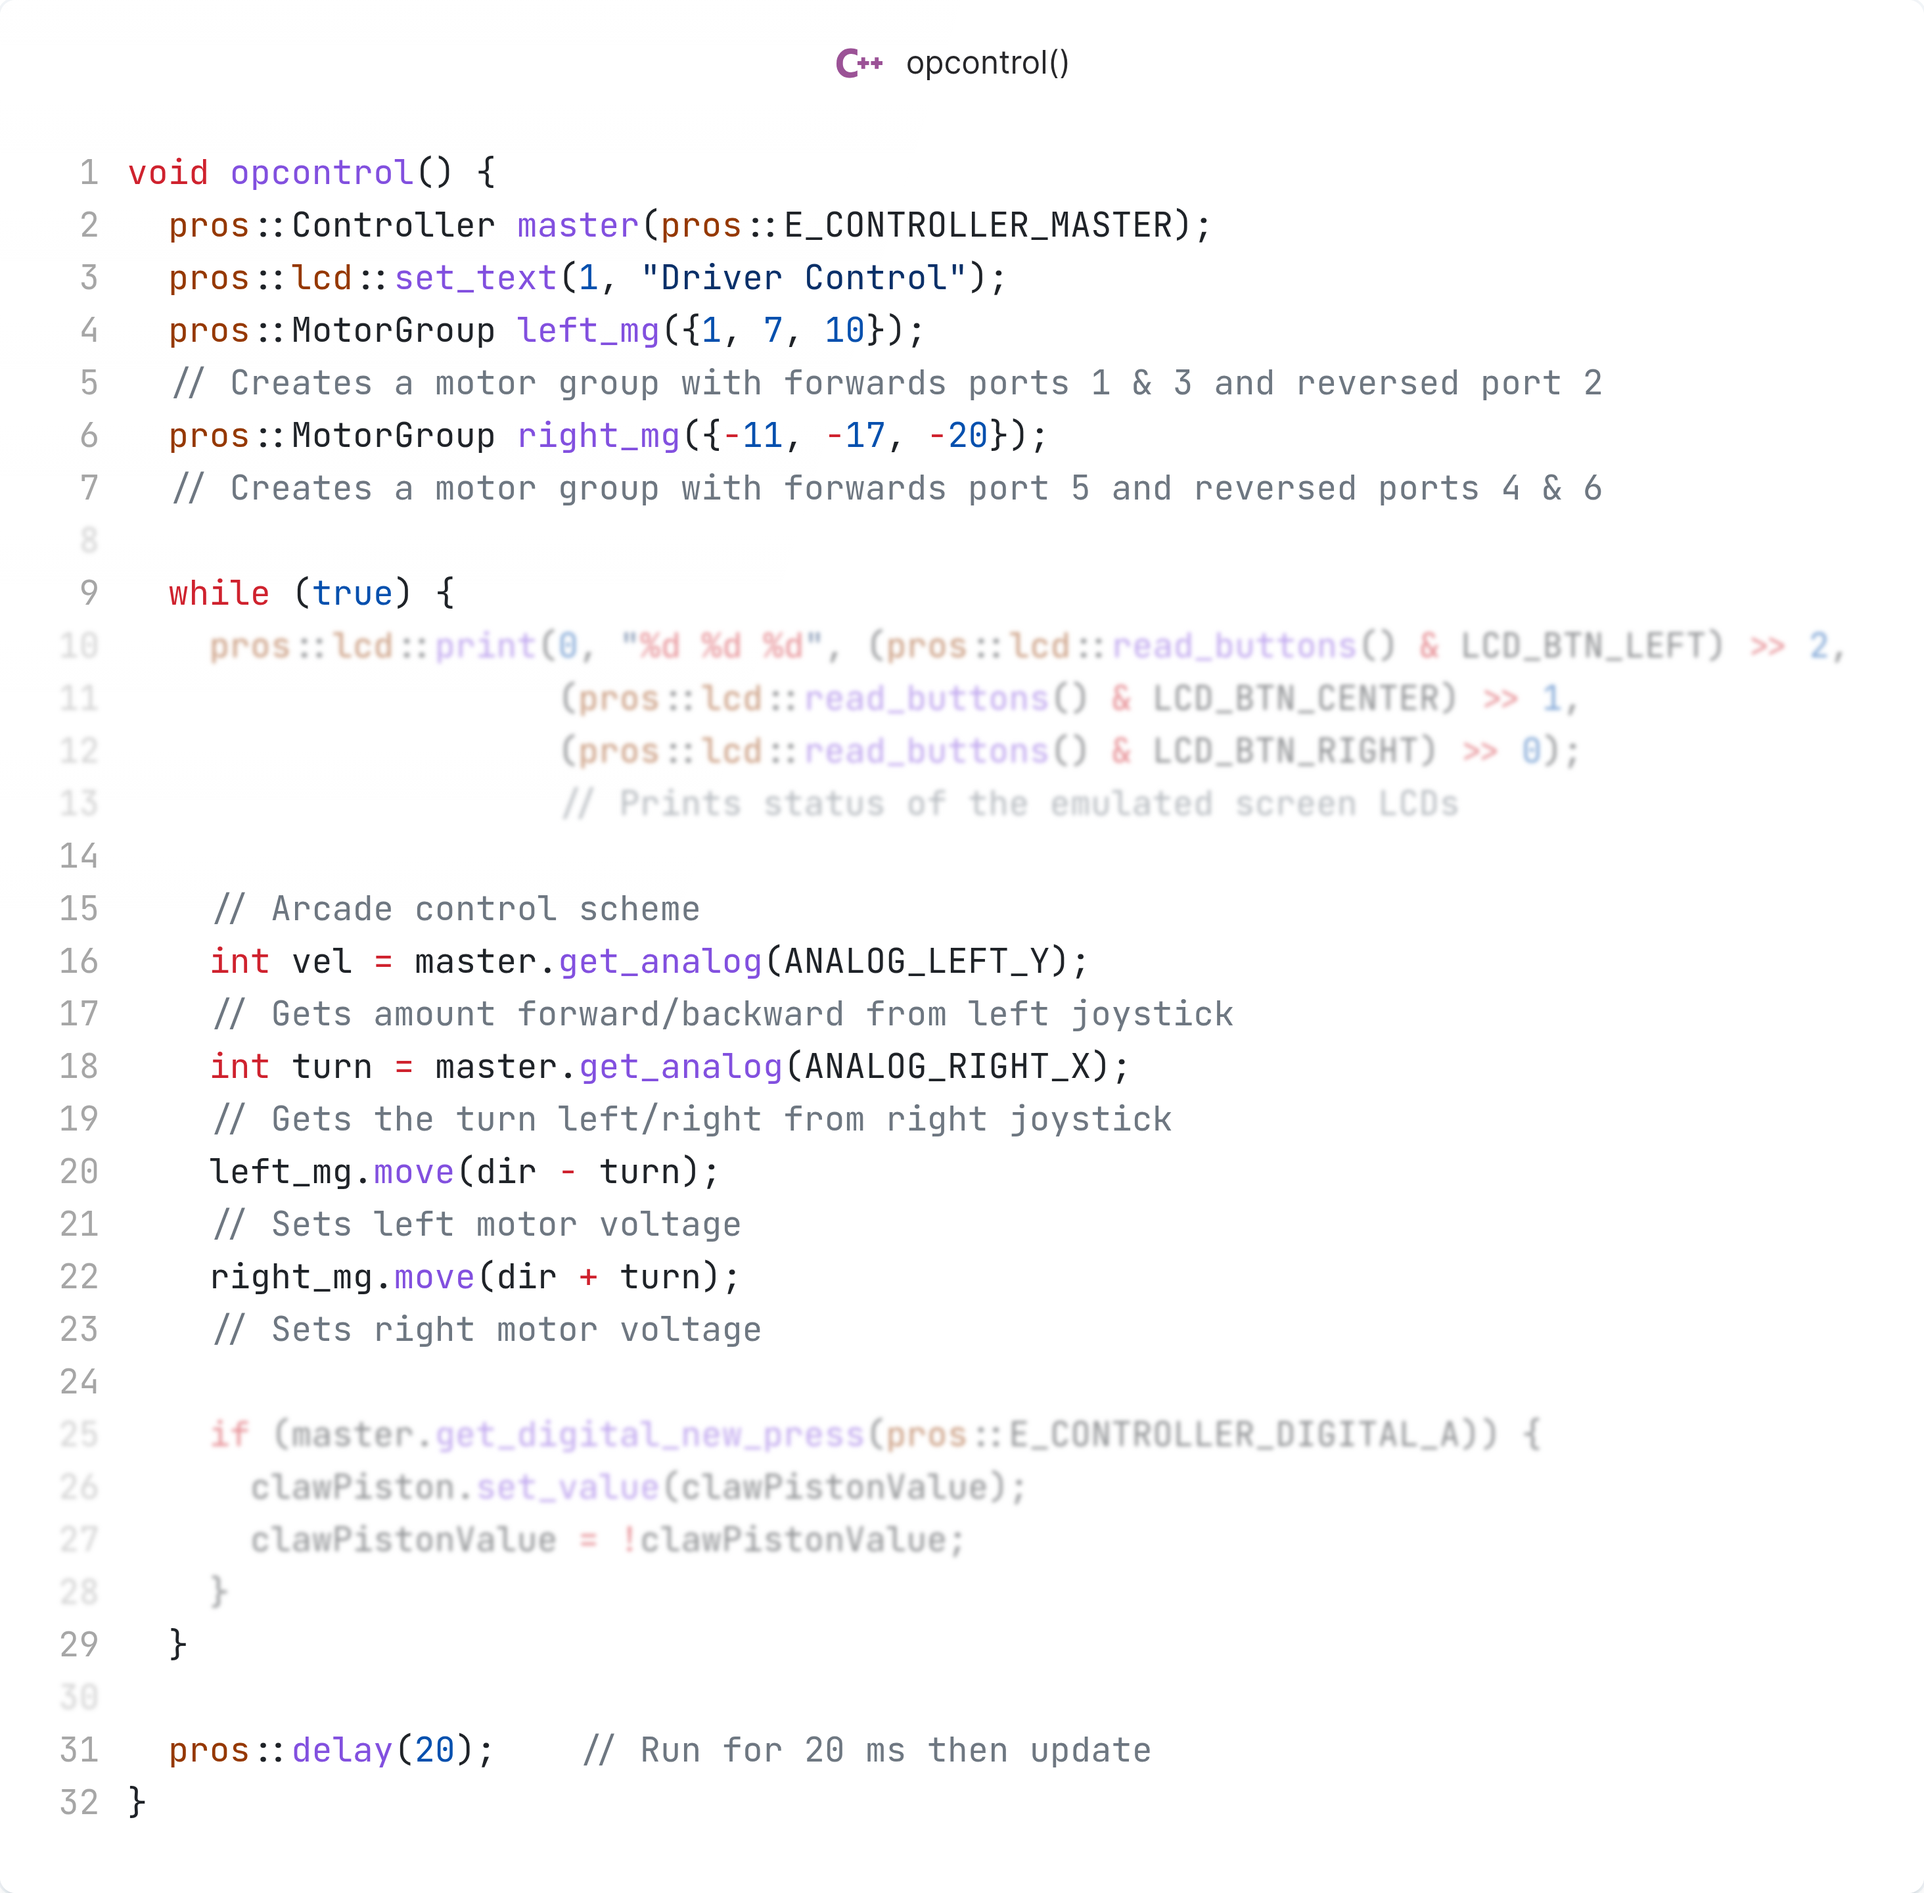
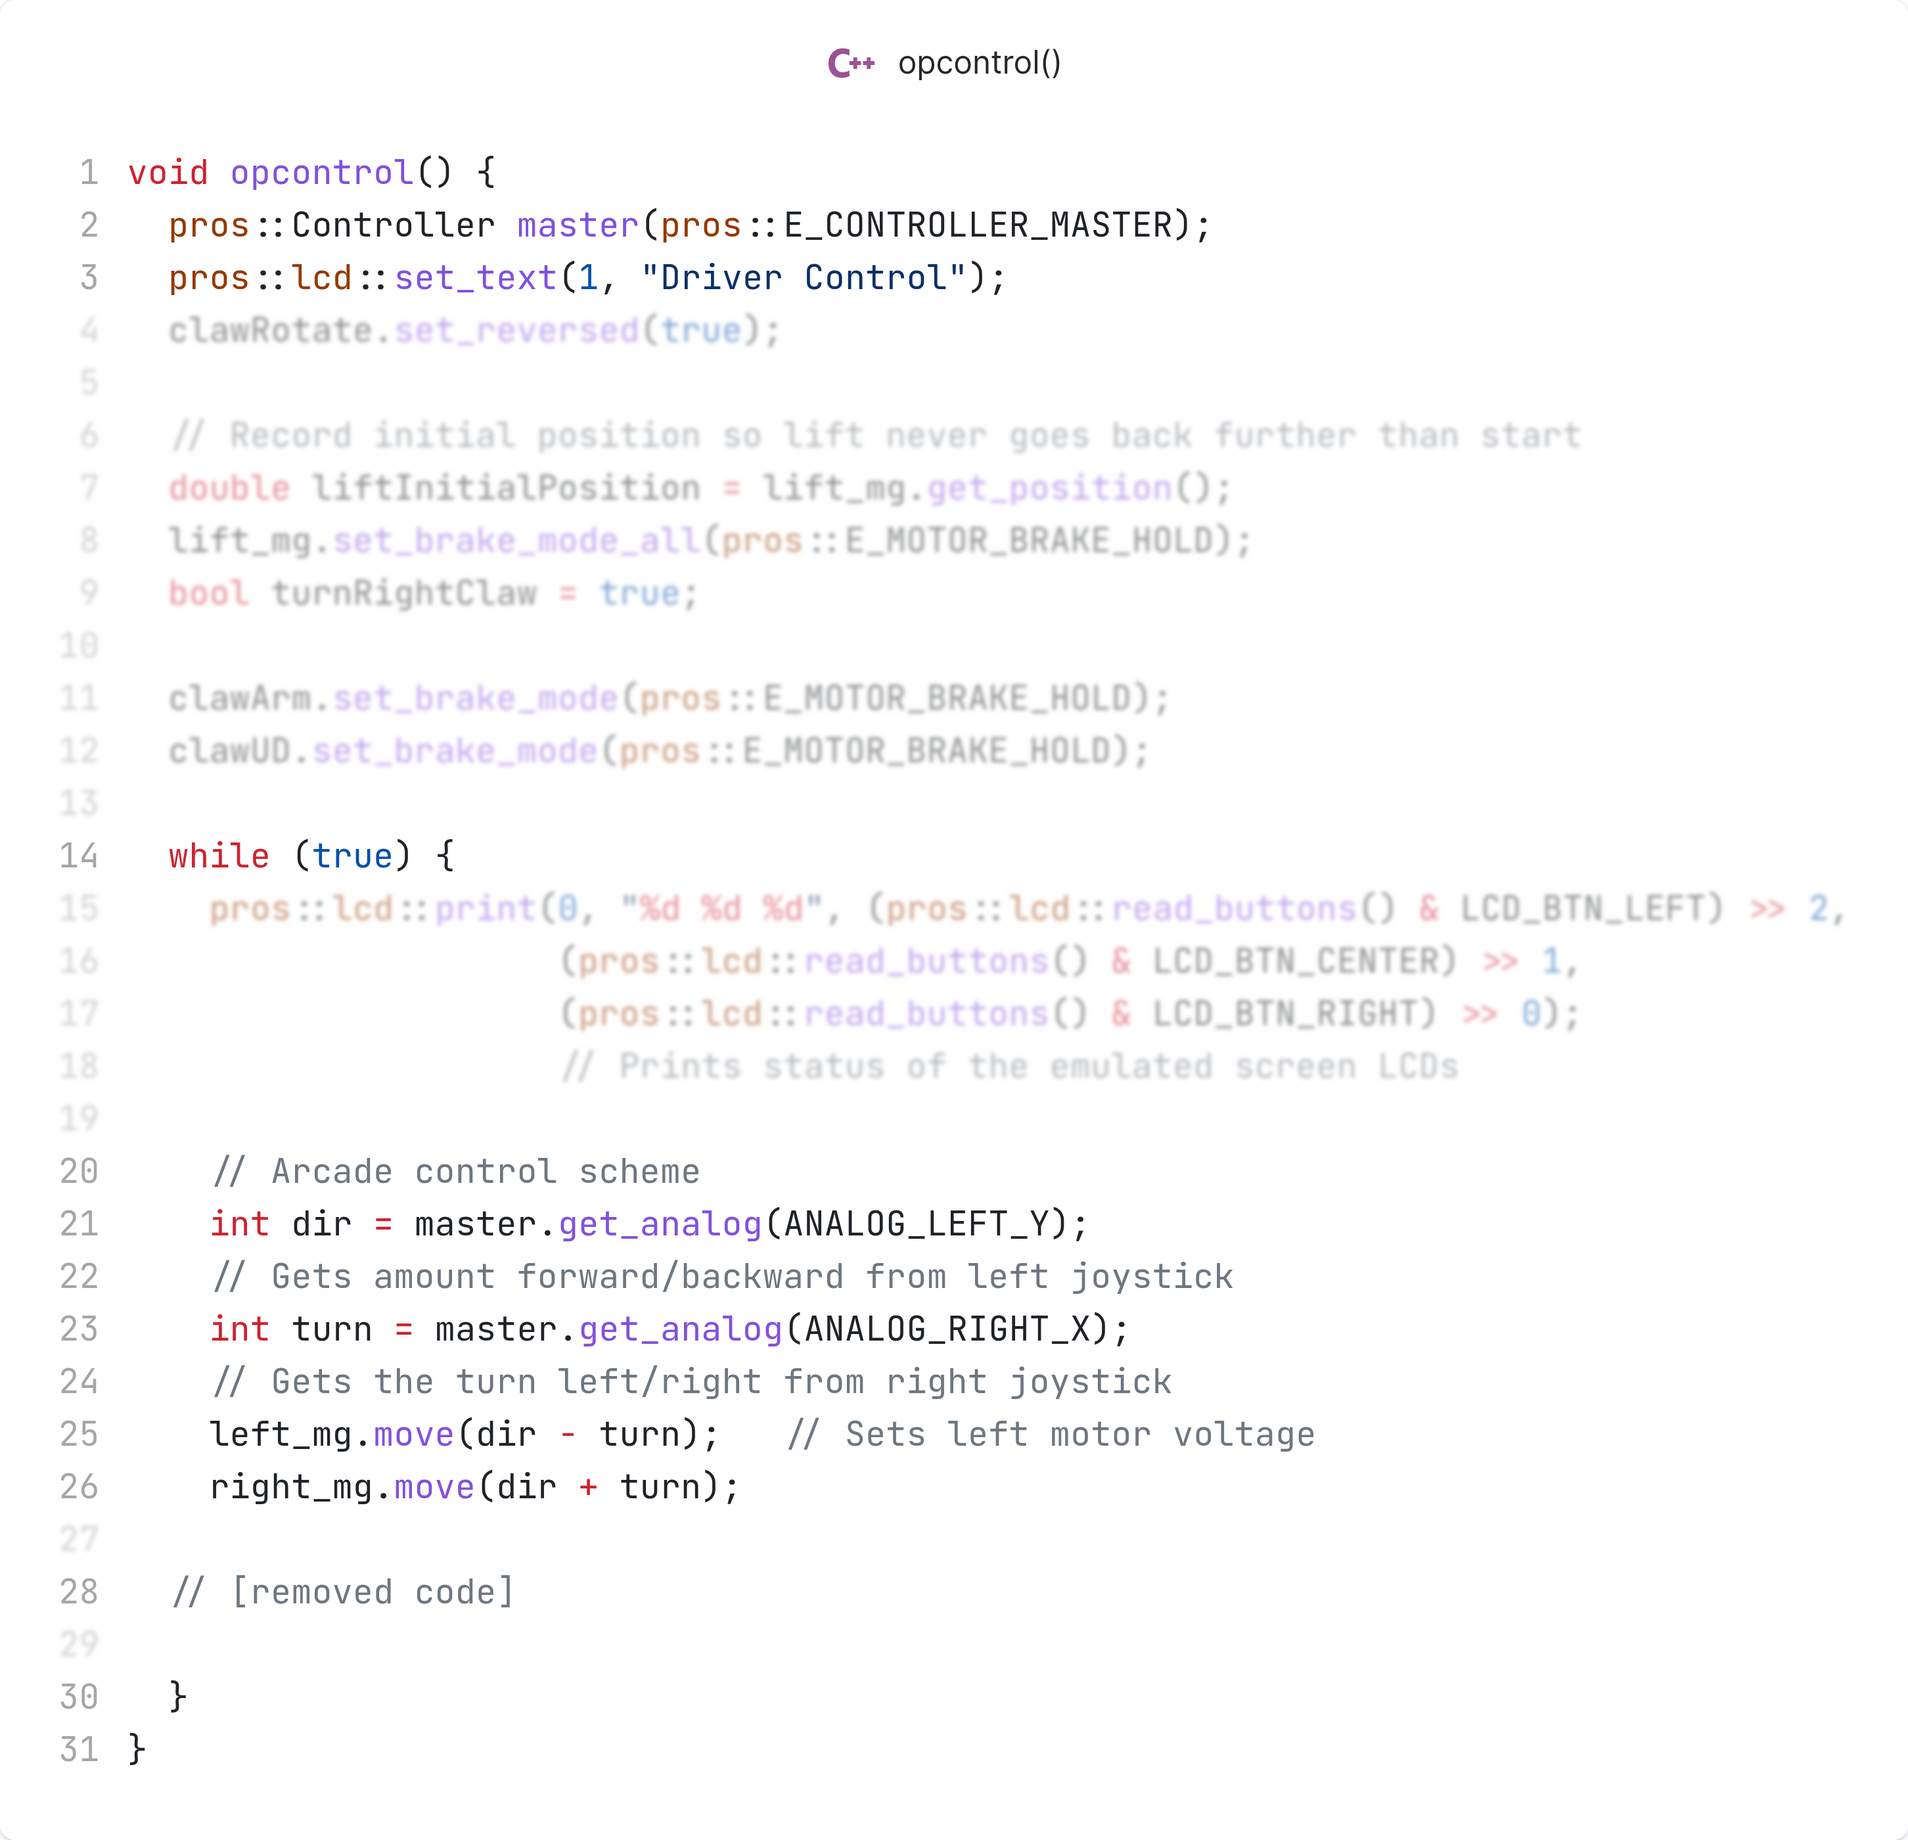
feat(opcontrol): add clawUD motor control and update motor settings
Add a new motor `clawUD` for vertical claw movement controlled via
the D-pad (DOWN/RIGHT). Update `clawArm` power levels and set brake
modes to `E_MOTOR_BRAKE_HOLD` for both `clawArm` and `clawUD` to
improve positioning stability. Additionally, invert the arcade
drive direction logic to correct movement.

Update notebook documentation images to reflect new motor port
declarations and control schemes.

diff --git a/src/main.cpp b/src/main.cpp
@@ -18,6 +18,7 @@ pros::MotorGroup right_mg({-11, -17, -20});
 pros::MotorGroup lift_mg({-15, 3});
 pros::Motor clawRotate(5, pros::v5::MotorGears::green, pros::v5::MotorUnits::degrees);
 pros::Motor clawArm(21, pros::v5::MotorGears::green, pros::v5::MotorUnits::degrees);
+pros::Motor clawUD(13, pros::v5::MotorGears::green, pros::v5::MotorUnits::degrees);
 pros::adi::DigitalOut clawPiston(DIGITAL_PISTON_PORT);
 
 void on_left_button() {
@@ -46,6 +47,11 @@ void initialize() {
 
 	pros::lcd::register_btn0_cb(on_left_button);
 	pros::lcd::register_btn2_cb(on_right_button);
+
+	clawArm.set_brake_mode(pros::E_MOTOR_BRAKE_HOLD);
+	clawUD.set_brake_mode(pros::E_MOTOR_BRAKE_HOLD);
+
+	
 }
 
 /**
@@ -82,6 +88,8 @@ void competition_initialize() {
  * from where it left off.
  */
 void autonomous() {
+	clawArm.set_brake_mode(pros::E_MOTOR_BRAKE_HOLD);
+	clawUD.set_brake_mode(pros::E_MOTOR_BRAKE_HOLD);
 	if (autonLeftSide) {
 		pros::lcd::set_text(1, "Left Side Autonomous");
 		// Left side code here
@@ -120,7 +128,9 @@ void opcontrol() {
 	double liftInitialPosition = lift_mg.get_position();
 	lift_mg.set_brake_mode_all(pros::E_MOTOR_BRAKE_HOLD);
 	bool turnRightClaw = true;
+
 	clawArm.set_brake_mode(pros::E_MOTOR_BRAKE_HOLD);
+	clawUD.set_brake_mode(pros::E_MOTOR_BRAKE_HOLD);
 
 	while (true) {
 		pros::lcd::print(0, "%d %d %d", (pros::lcd::read_buttons() & LCD_BTN_LEFT) >> 2,
@@ -128,8 +138,8 @@ void opcontrol() {
 		                 (pros::lcd::read_buttons() & LCD_BTN_RIGHT) >> 0);  // Prints status of the emulated screen LCDs
 
 		// Arcade control scheme
-		int dir = -master.get_analog(ANALOG_LEFT_Y);    // Gets amount forward/backward from left joystick
-		int turn = -master.get_analog(ANALOG_RIGHT_X);  // Gets the turn left/right from right joystick
+		int dir = master.get_analog(ANALOG_LEFT_Y);    // Gets amount forward/backward from left joystick
+		int turn = master.get_analog(ANALOG_RIGHT_X);  // Gets the turn left/right from right joystick
 		left_mg.move(dir - turn);                      // Sets left motor voltage
 		right_mg.move(dir + turn);                     // Sets right motor voltage
 		
@@ -170,16 +180,30 @@ void opcontrol() {
 
 		if (master.get_digital_new_press(DIGITAL_R1)) {
 			while (master.get_digital(DIGITAL_R1)) {
-				clawArm.move(50);
+				clawArm.move(75);
 			}
 			clawArm.move(0);
 		}
 
 		if (master.get_digital_new_press(DIGITAL_R2)) {
 			while (master.get_digital(DIGITAL_R2)) {
-				clawArm.move(-50);
+				clawArm.move(-75);
 			}
 			clawArm.move(0);
+		}
+
+		if (master.get_digital_new_press(DIGITAL_DOWN)) {
+			while (master.get_digital(DIGITAL_DOWN)) {
+				clawUD.move(-50);
+			}
+			clawUD.move(0);
+		}
+
+		if (master.get_digital_new_press(DIGITAL_RIGHT)) {
+			while (master.get_digital(DIGITAL_RIGHT)) {
+				clawUD.move(50);
+			}
+			clawUD.move(0);
 		}
 
 		pros::delay(20);
